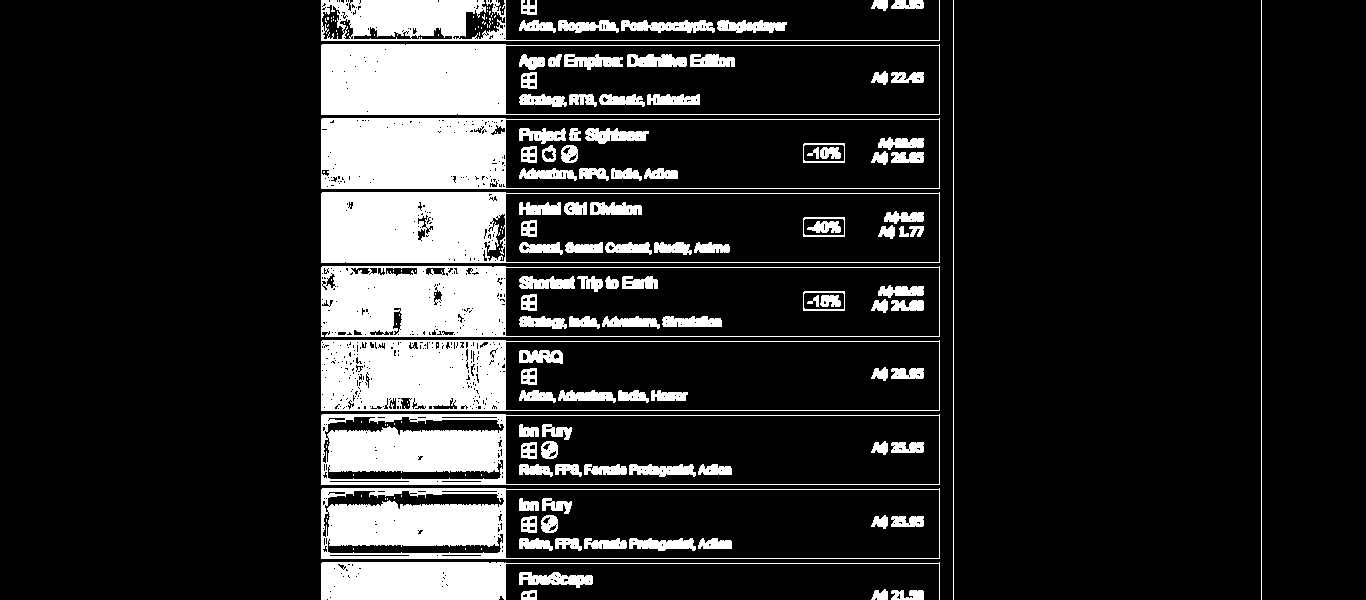
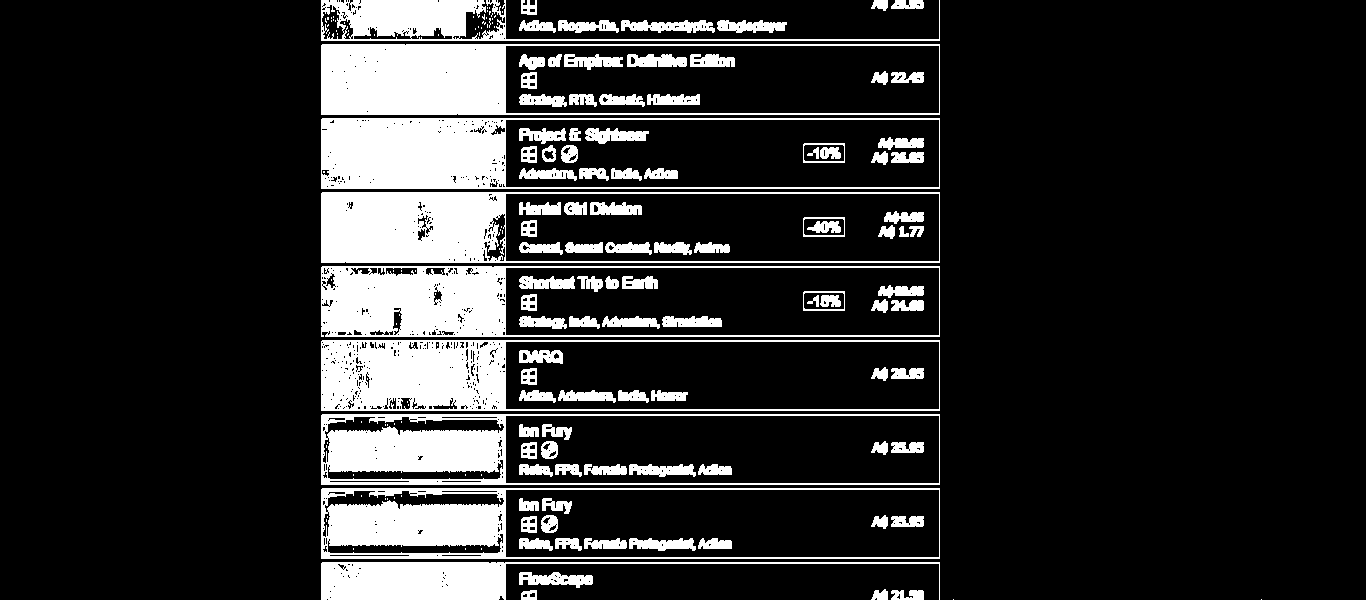
correct line detection

diff --git a/code/MODULE/img_processing_project/line_v2.py b/code/MODULE/img_processing_project/line_v2.py
@@ -6,8 +6,8 @@ import ip_preprocessing as pre
 def draw_line(img, lines, color, show=True):
     for line in lines:
         cv2.line(img, line[0], line[1], color)
-        cv2.imshow('img', img)
-        cv2.waitKey(0)
+        # cv2.imshow('img', img)
+        # cv2.waitKey(0)
 
 
 def rm_line(binary, lines):
@@ -31,40 +31,40 @@ def rm_line(binary, lines):
     return new_binary
 
 
-def search_line(binary, min_line_length_h=200, min_line_length_v=80, max_thickness=3, max_cross_point=0.1):
+def search_line(binary, min_line_length_h=200, min_line_length_v=80, max_thickness=3):
 
     def check(start_row, start_col, mode):
         if mode == 'h':
             for t in range(max_thickness + 1):
-                if start_row + t == binary.shape[0] or binary[start_row + t, start_col] == 0:
+                if start_row + t >= binary.shape[0] or binary[start_row + t, start_col] == 0:
                     return True
                 mark_h[start_row + t, start_col] = 255
             return False
         elif mode == 'v':
             for t in range(max_thickness + 1):
-                if start_col + t == binary.shape[1] or binary[start_row, start_col + t] == 0:
+                if start_col + t >= binary.shape[1] or binary[start_row, start_col + t] == 0:
                     return True
                 mark_v[start_row, start_col + t] = 255
             return False
 
     row, column = binary.shape[0], binary.shape[1]
 
-    mark_h = np.zeros(binary.shape)
-    mark_v = np.zeros(binary.shape)
+    mark_h = np.zeros(binary.shape, dtype=np.uint8)
+    mark_v = np.zeros(binary.shape, dtype=np.uint8)
     lines_h = []
     lines_v = []
     x, y = 0, 0
     while x < row - 1 or y < column - 1:
         # horizontal
         new_line = False
-        head, end = -1, -1
+        head, end = None, None
         for j in range(column):
             # line start
             if not new_line and mark_h[x][j] == 0 and binary[x][j] > 0 and check(x, j, 'h'):
                 head = j
                 new_line = True
             # line end
-            elif new_line and (mark_h[x][j] > 0 or binary[x][j] == 0 or not check(x, j, 'h')):
+            elif new_line and (j == column - 1 or mark_h[x][j] > 0 or binary[x][j] == 0 or not check(x, j, 'h')):
                 end = j
                 new_line = False
                 if end - head > min_line_length_h:
@@ -72,14 +72,14 @@ def search_line(binary, min_line_length_h=200, min_line_length_v=80, max_thickne
 
         # vertical
         new_line = False
-        head, end = -1, -1
+        head, end = None, None
         for i in range(row):
             # line start
-            if not new_line and mark_v[i][y] == 0 and binary[i][y] > 0 and not check(i, y, 'v'):
+            if not new_line and mark_v[i][y] == 0 and binary[i][y] > 0 and check(i, y, 'v'):
                 head = i
                 new_line = True
             # line end
-            elif new_line and (mark_v[i][y] > 0 or binary[i][y] == 0 or not check(i, y, 'v')):
+            elif new_line and (i == row - 1 or mark_v[i][y] > 0 or binary[i][y] == 0 or not check(i, y, 'v')):
                 end = i
                 new_line = False
                 if end - head > min_line_length_v:
